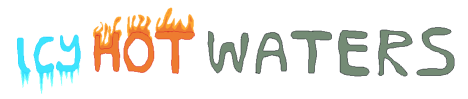
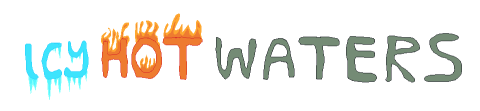
Change resolutions, update the small title image

diff --git a/src/settings.py b/src/settings.py
@@ -2,10 +2,10 @@ import pygame
 
 TITLE: str = "Icy Hot Waters"
 
-WIDTH: int = 1280 // 2
-HEIGHT: int = 720 // 2 - 8
-# WIDTH: int = 1280
-# HEIGHT: int = 720
+# WIDTH: int = 1280 // 2
+# HEIGHT: int = 720 // 2 - 8
+WIDTH: int = 1280
+HEIGHT: int = 720
 DISPLAY_FLAGS: int = pygame.SCALED
 # DISPLAY_FLAGS: int = 0
 

diff --git a/src/main.py b/src/main.py
@@ -12,7 +12,7 @@ assets.load_assets()
 
 common.set_current_state(states.GamePlay())
 
-title = pygame.image.load("assets/title_small.png").convert_alpha()
+title = pygame.image.load("assets/title.png").convert_alpha()
 ice = pygame.image.load("assets/ice_cube.png").convert_alpha()
 
 running = True
